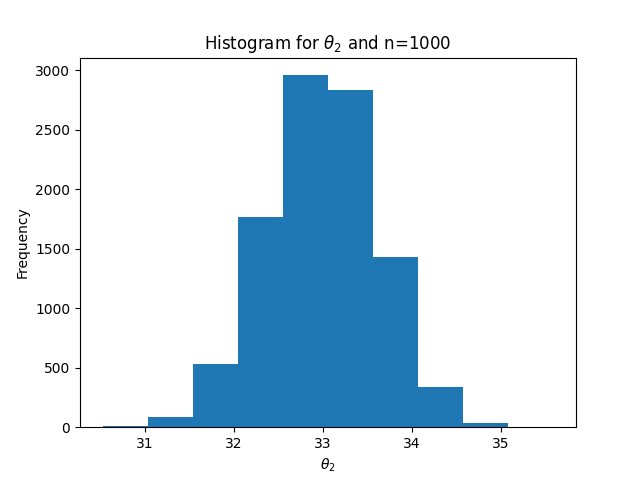
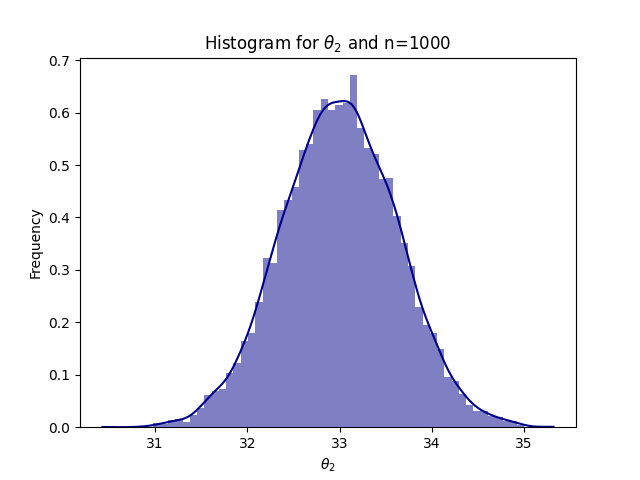
change distplot to histplot (add pdf to cont. var.)

diff --git a/quiz1.py b/quiz1.py
@@ -1,6 +1,7 @@
 #Made by Sebastian Daza and Santiago Uribe
 
 import numpy as np
+import seaborn as sns
 import matplotlib.pyplot as plt
 from sklearn.utils import resample
 
@@ -28,7 +29,7 @@ for n in n_space:
     plt.savefig(f"theta1_n{n}.png")
 
     plt.clf()
-    plt.hist(vec_theta_2)
+    sns.histplot(vec_theta_2, kde=True, stat="density", linewidth=0, color='darkblue')
     plt.title("Histogram for $\\theta_2$ and n={}".format(n))
     plt.ylabel("Frequency")
     plt.xlabel("$\\theta_2$")
